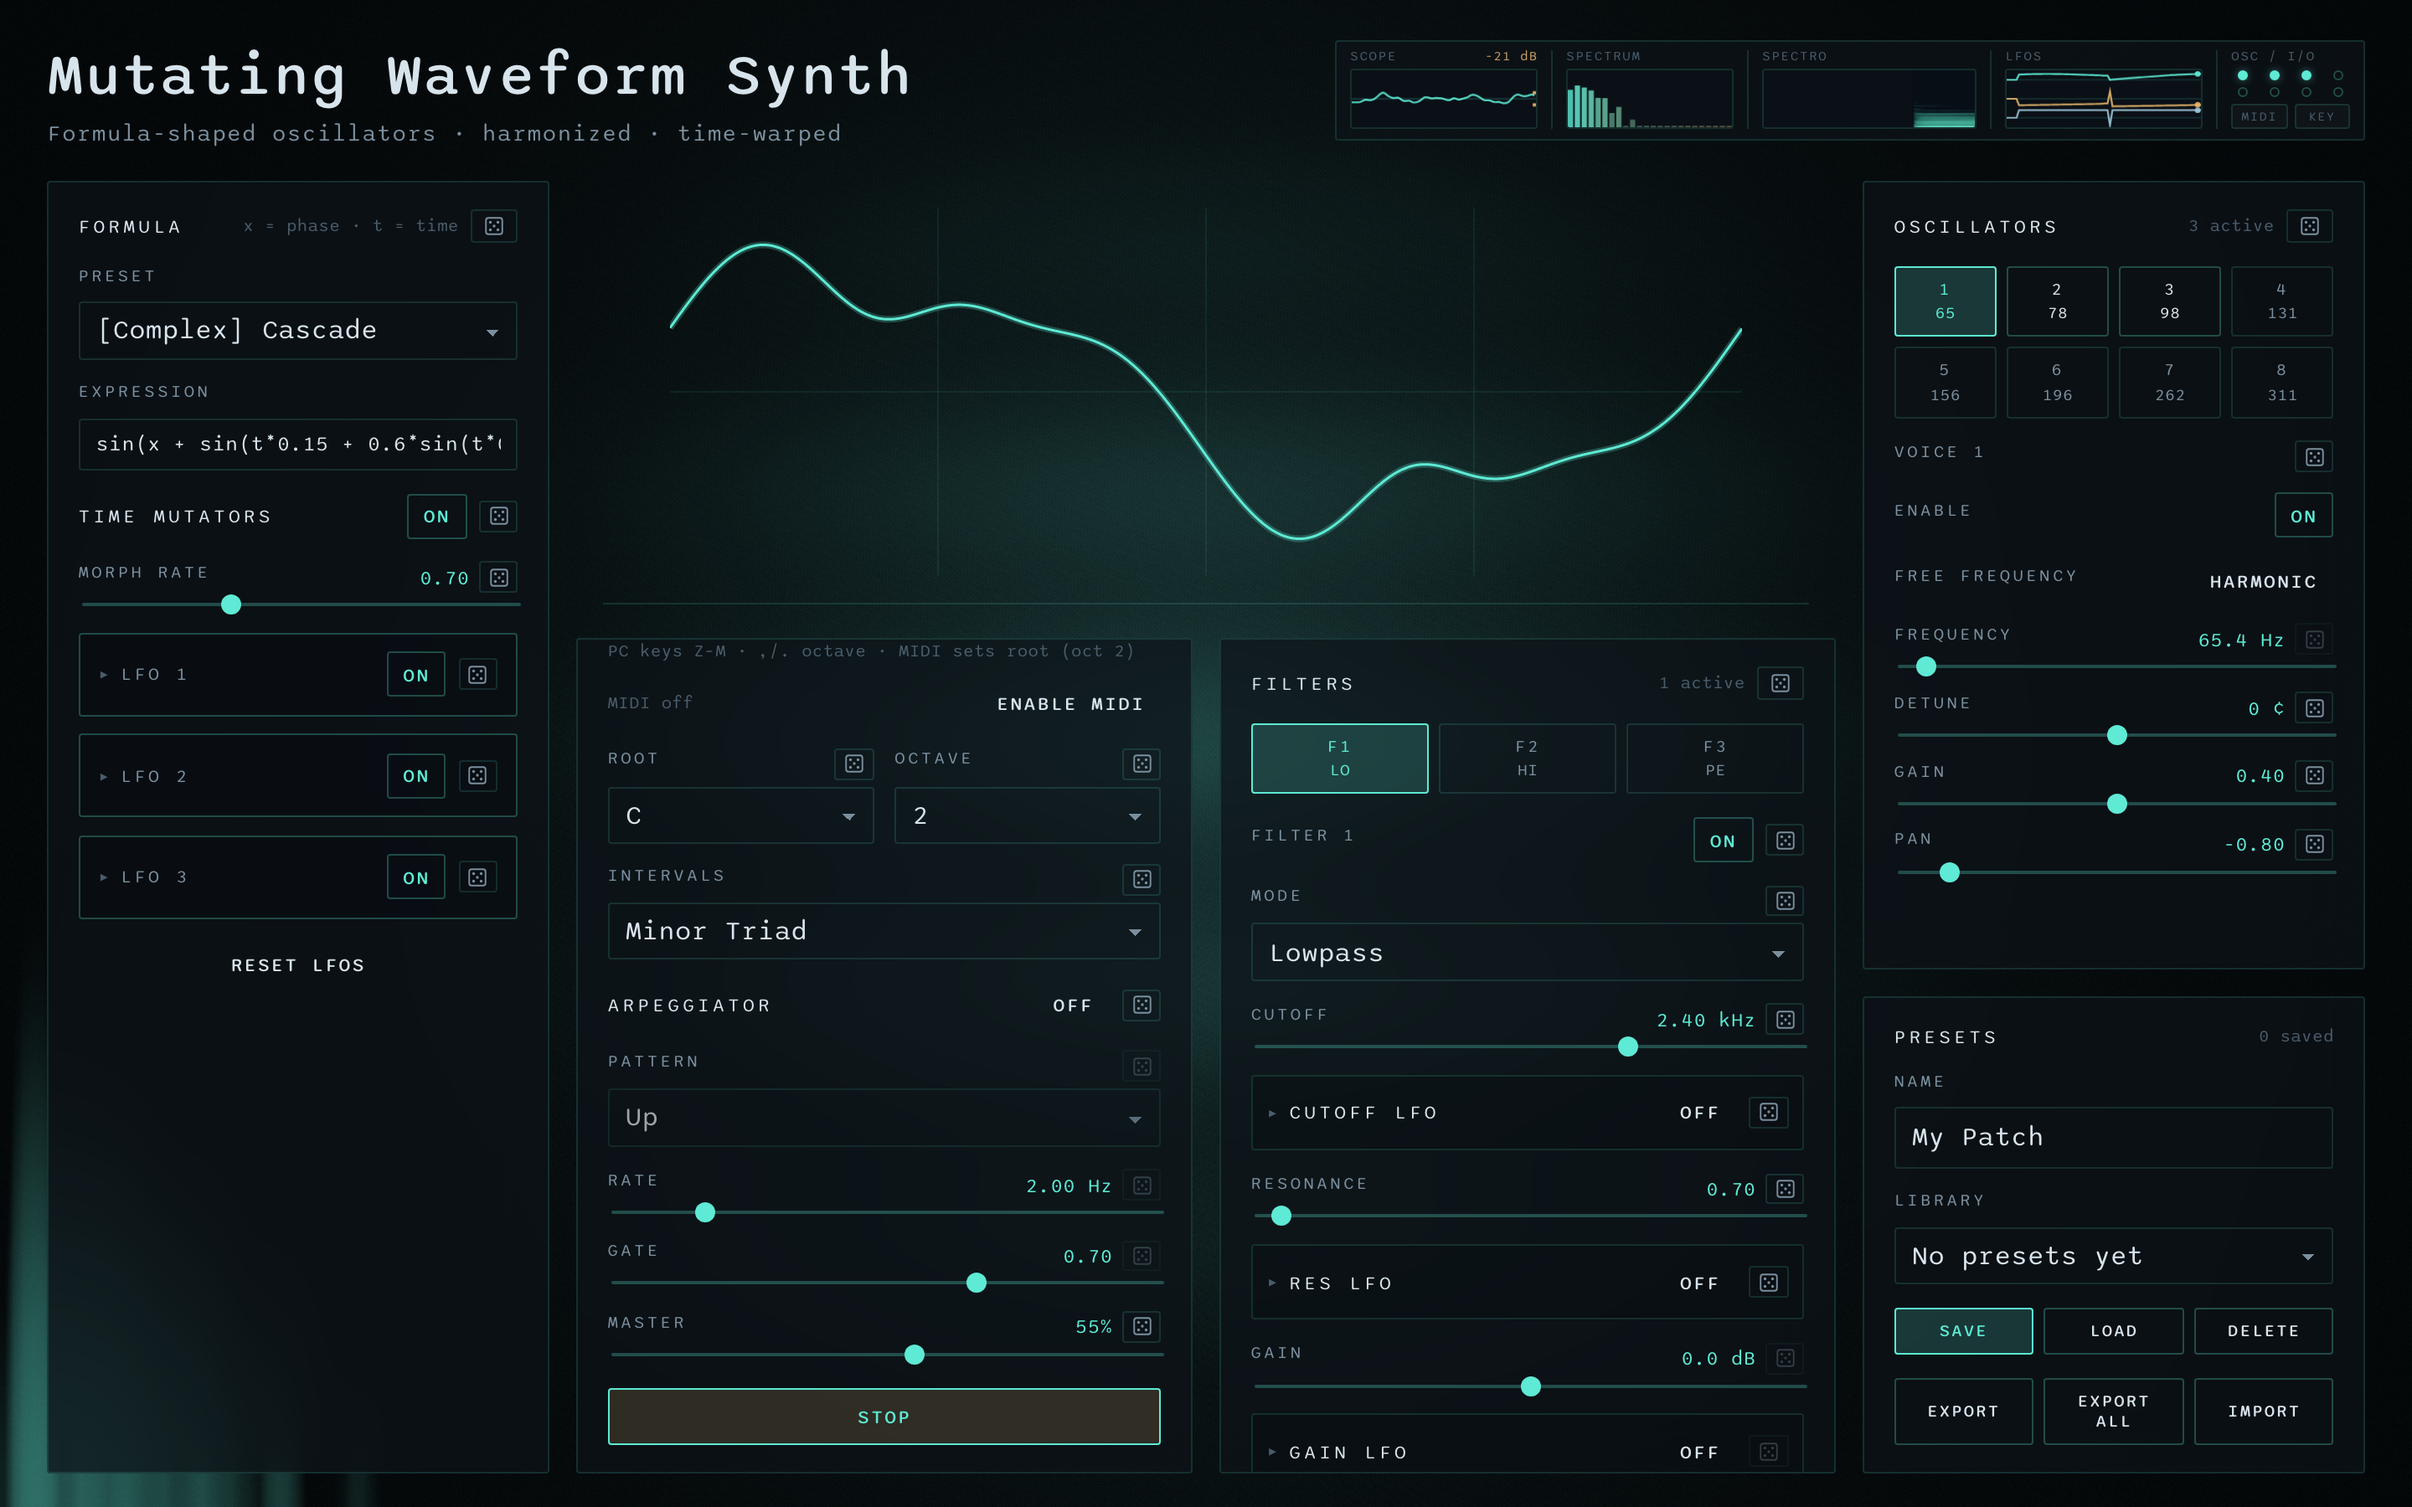
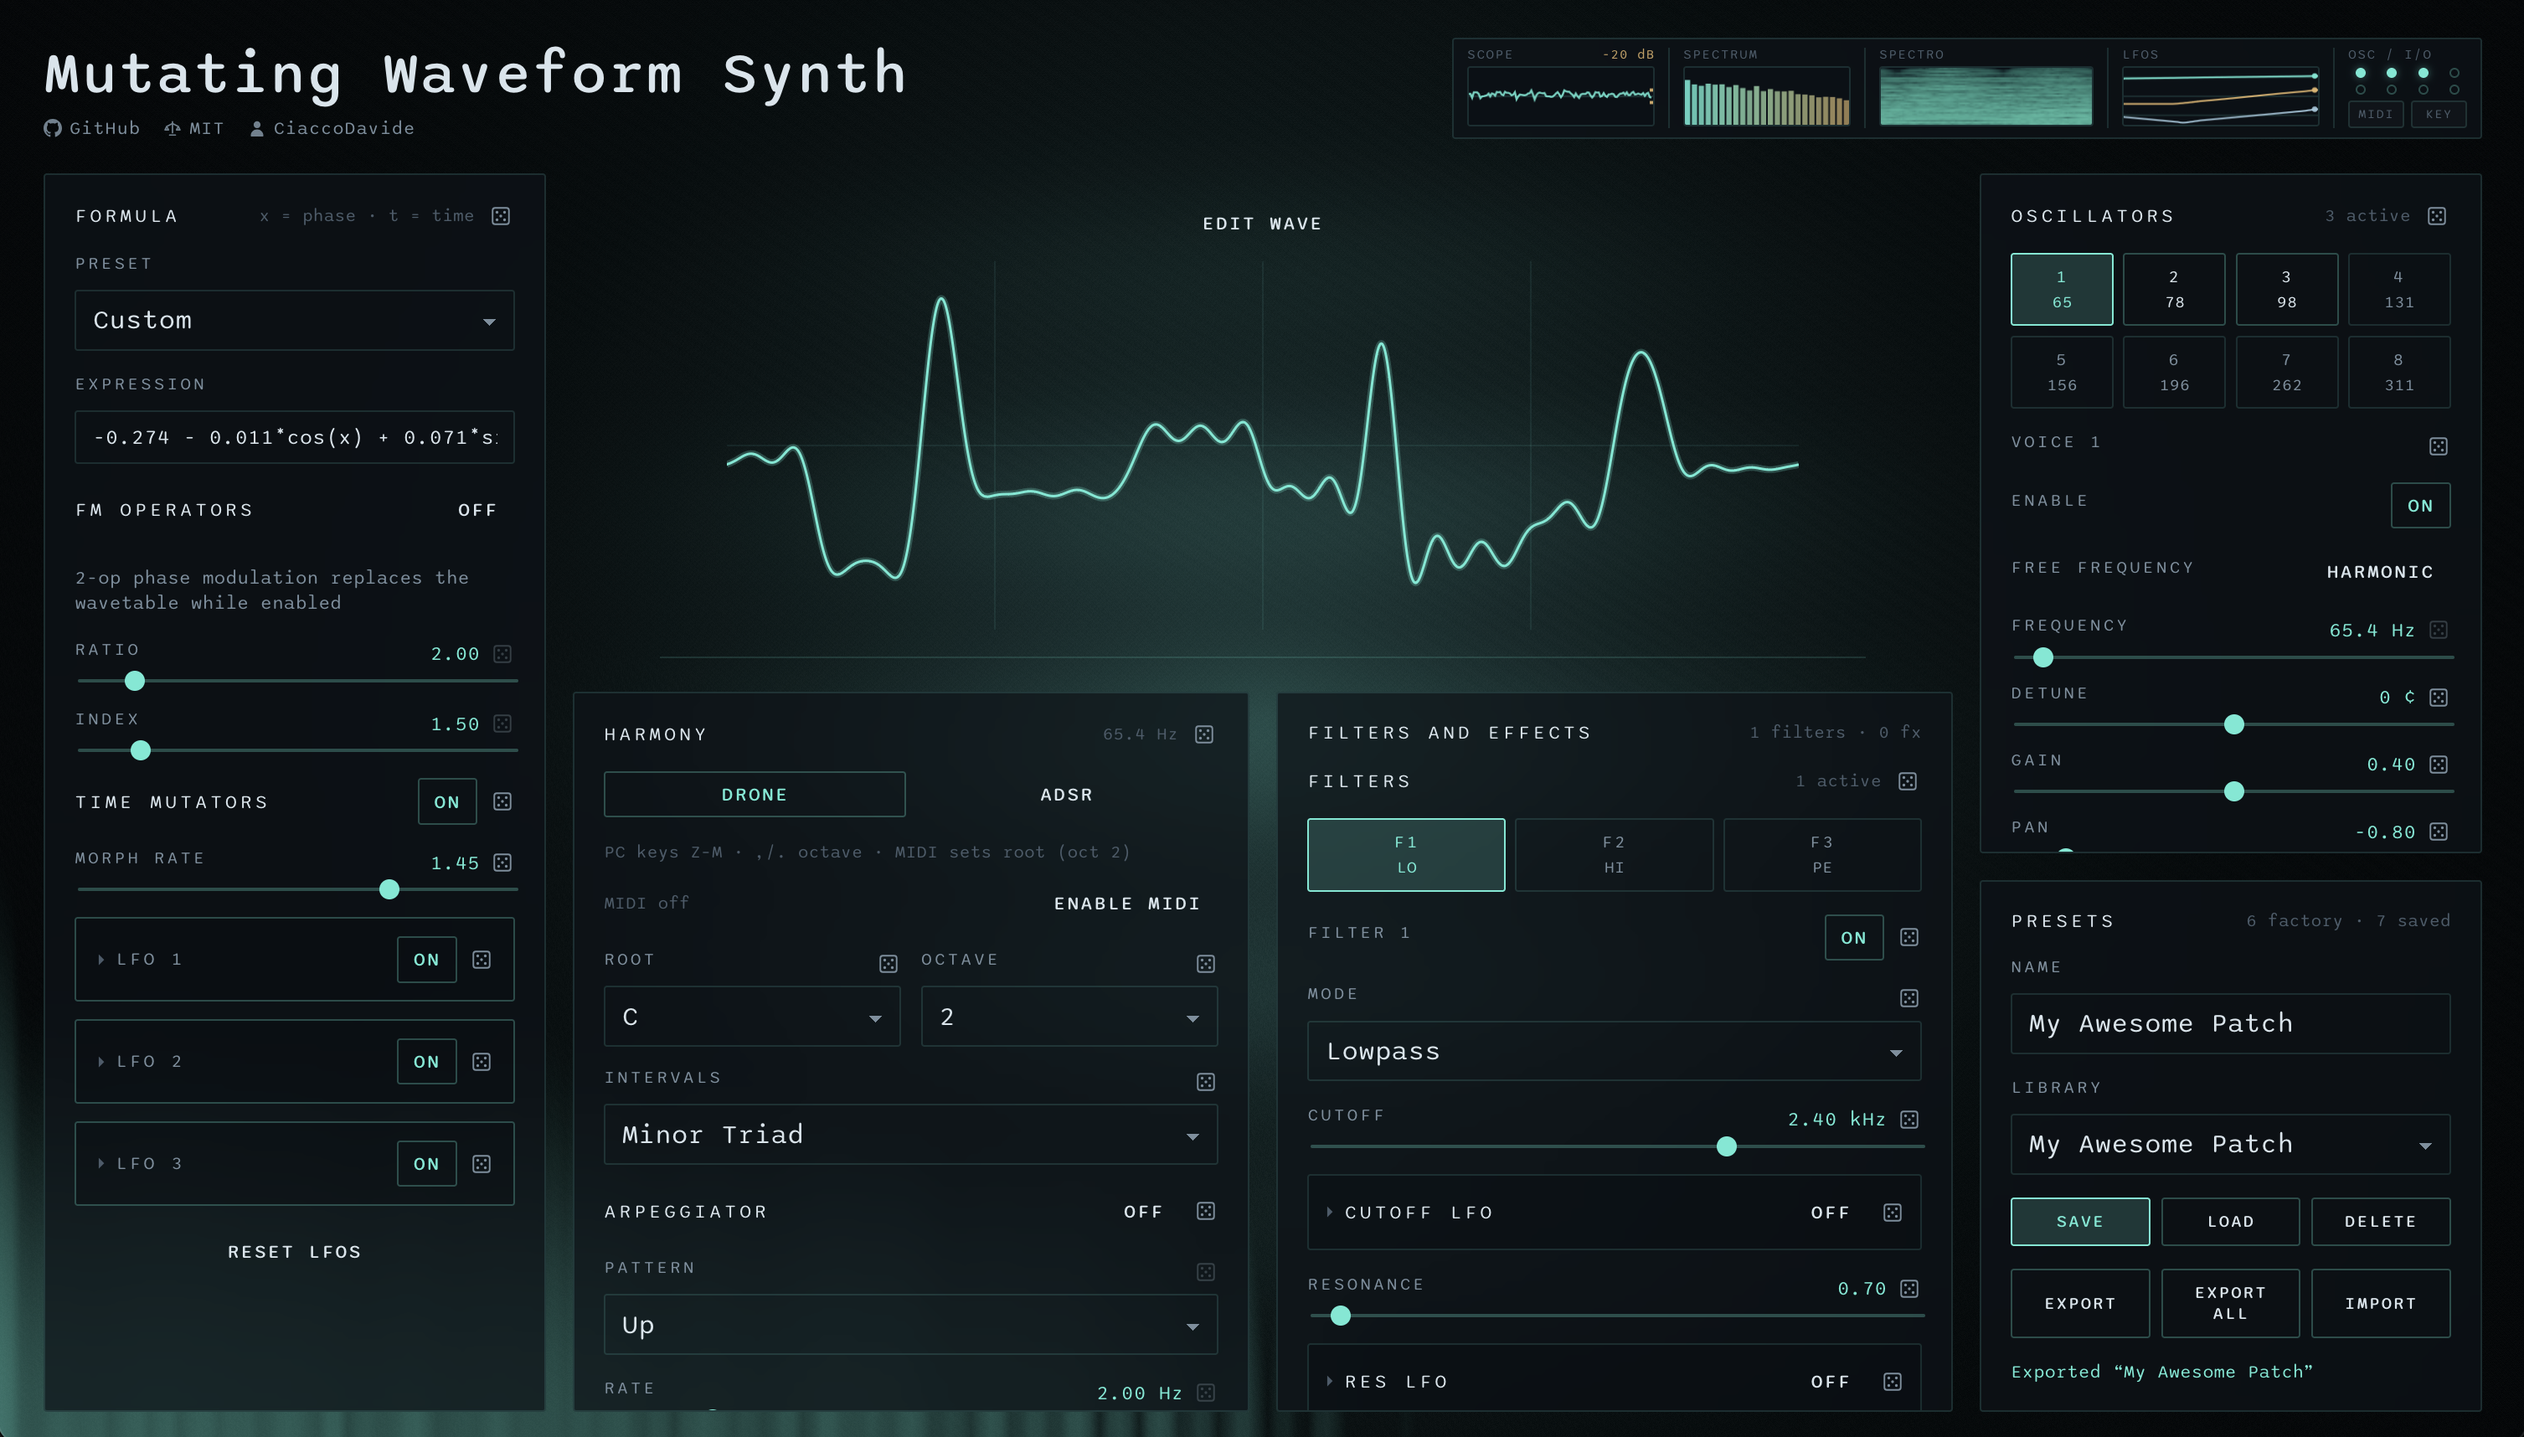
update screenshot, rearrange panels

diff --git a/src/App.tsx b/src/App.tsx
@@ -58,6 +58,7 @@ import {
 import { useRootInput } from './input/useRootInput';
 import { PresetPanel } from './ui/PresetPanel';
 import { EffectsPanel } from './ui/EffectsPanel';
+import { CollapsibleSection } from './ui/CollapsibleSection';
 import { MonitorStrip } from './ui/MonitorStrip';
 import {
   CONNECT_MODES,
@@ -975,16 +976,35 @@ export default function App() {
                 onArpChange={setArp}
                 onEnableMidi={enableMidi}
               />
-              <FilterPanel
-                filters={filters}
-                selectedIndex={selectedFilter}
-                onSelect={setSelectedFilter}
-                onChange={setFilters}
-                ladder={ladder}
-                onLadderChange={setLadder}
-              />
-              <EffectsPanel effects={effects} onChange={setEffects} />
-            </div>
+              <CollapsibleSection
+                mode="mobile"
+                className="panel filter-panel"
+                title="Filters and Effects"
+                actions={
+                  <span className="panel-hint">
+                    {filters.filter((f) => f.enabled).length} filters ·{' '}
+                    {
+                      [
+                        effects.chorus.enabled,
+                        effects.delay.enabled,
+                        effects.reverb.enabled,
+                      ].filter(Boolean).length
+                    }{' '}
+                    fx
+                  </span>
+                }
+              >
+                <FilterPanel
+                  filters={filters}
+                  selectedIndex={selectedFilter}
+                  onSelect={setSelectedFilter}
+                  onChange={setFilters}
+                  ladder={ladder}
+                  onLadderChange={setLadder}
+                />
+                <EffectsPanel effects={effects} onChange={setEffects} />
+              </CollapsibleSection>
+        </div>
       </section>
 
           <aside className="stage-right">

diff --git a/src/state/InstrumentPreset.ts b/src/state/InstrumentPreset.ts
@@ -22,7 +22,7 @@ import { DEFAULT_ADSR } from '../audio/Envelope';
 import { DEFAULT_ARP } from '../audio/Arpeggiator';
 
 export const PRESET_SCHEMA_VERSION = 3;
-export const PRESET_STORAGE_KEY = 'mwd-global-presets-v1';
+export const PRESET_STORAGE_KEY = 'mws-global-presets-v1';
 /** Bump when factory patch DSP changes and new seeded ids should appear */
 export const CURRENT_FACTORY_SEED_VERSION = 1;
 
@@ -175,7 +175,7 @@ export function exportPresetToFile(preset: SavedPreset): void {
   const a = document.createElement('a');
   const safe = preset.name.replace(/[^\w\-]+/g, '_').slice(0, 48) || 'preset';
   a.href = url;
-  a.download = `${safe}.mwd.json`;
+  a.download = `${safe}.mws.json`;
   a.click();
   URL.revokeObjectURL(url);
 }
@@ -187,7 +187,7 @@ export function exportLibraryToFile(library: PresetLibrary): void {
   const url = URL.createObjectURL(blob);
   const a = document.createElement('a');
   a.href = url;
-  a.download = `mwd-presets-${new Date().toISOString().slice(0, 10)}.json`;
+  a.download = `mws-presets-${new Date().toISOString().slice(0, 10)}.json`;
   a.click();
   URL.revokeObjectURL(url);
 }

diff --git a/src/ui/FilterPanel.tsx b/src/ui/FilterPanel.tsx
@@ -218,12 +218,10 @@ export function FilterPanel({
   const cutoffSlider = cutoffToSlider(filter.cutoff);
 
   return (
-    <CollapsibleSection
-      mode="mobile"
-      className="panel filter-panel"
-      title="Filters"
-      actions={
-        <>
+    <>
+      <div className="panel-subheader">
+        <span className="panel-title">Filters</span>
+        <div className="panel-header-actions">
           <span className="panel-hint">
             {filters.filter((f) => f.enabled).length} active
           </span>
@@ -231,9 +229,9 @@ export function FilterPanel({
             title="Randomize all filters"
             onClick={() => onChange(randomFilterBank())}
           />
-        </>
-      }
-    >
+        </div>
+      </div>
+
       <div className="filter-tabs">
         {filters.map((f, i) => (
           <button
@@ -472,7 +470,7 @@ export function FilterPanel({
         disabled={!ladder.enabled}
         onChange={(drive) => onLadderChange({ ...ladder, drive })}
       />
-    </CollapsibleSection>
+    </>
   );
 }
 

diff --git a/src/ui/EffectsPanel.tsx b/src/ui/EffectsPanel.tsx
@@ -3,7 +3,6 @@ import {
   REVERB_ALGORITHMS,
   type EffectsState,
 } from '../audio/EffectsModel';
-import { CollapsibleSection } from './CollapsibleSection';
 import { SliderField } from './SliderField';
 
 interface EffectsPanelProps {
@@ -15,17 +14,7 @@ export function EffectsPanel({ effects, onChange }: EffectsPanelProps) {
   const { chorus, delay, reverb } = effects;
 
   return (
-    <CollapsibleSection
-      mode="mobile"
-      className="panel filter-panel"
-      title="Effects"
-      actions={
-        <span className="panel-hint">
-          {[chorus.enabled, delay.enabled, reverb.enabled].filter(Boolean).length}{' '}
-          on
-        </span>
-      }
-    >
+    <>
       <div className="panel-subheader">
         <span className="panel-title">Chorus</span>
         <button
@@ -361,6 +350,6 @@ export function EffectsPanel({ effects, onChange }: EffectsPanelProps) {
           })
         }
       />
-    </CollapsibleSection>
+    </>
   );
 }

diff --git a/src/audio/FxGraph.ts b/src/audio/FxGraph.ts
@@ -356,7 +356,7 @@ export class FxGraph {
     tone.type = 'lowpass';
     tone.frequency.value = 4200;
     const shaper = ctx.createWaveShaper();
-    shaper.curve = this.makeTapeCurve(algorithm === 'tape' ? 2.5 : 1.1);
+    shaper.curve = this.makeTapeCurve(algorithm === 'tape' ? 2.5 : 1.1) as Float32Array<ArrayBuffer>;
 
     input.connect(dry);
     dry.connect(output);
